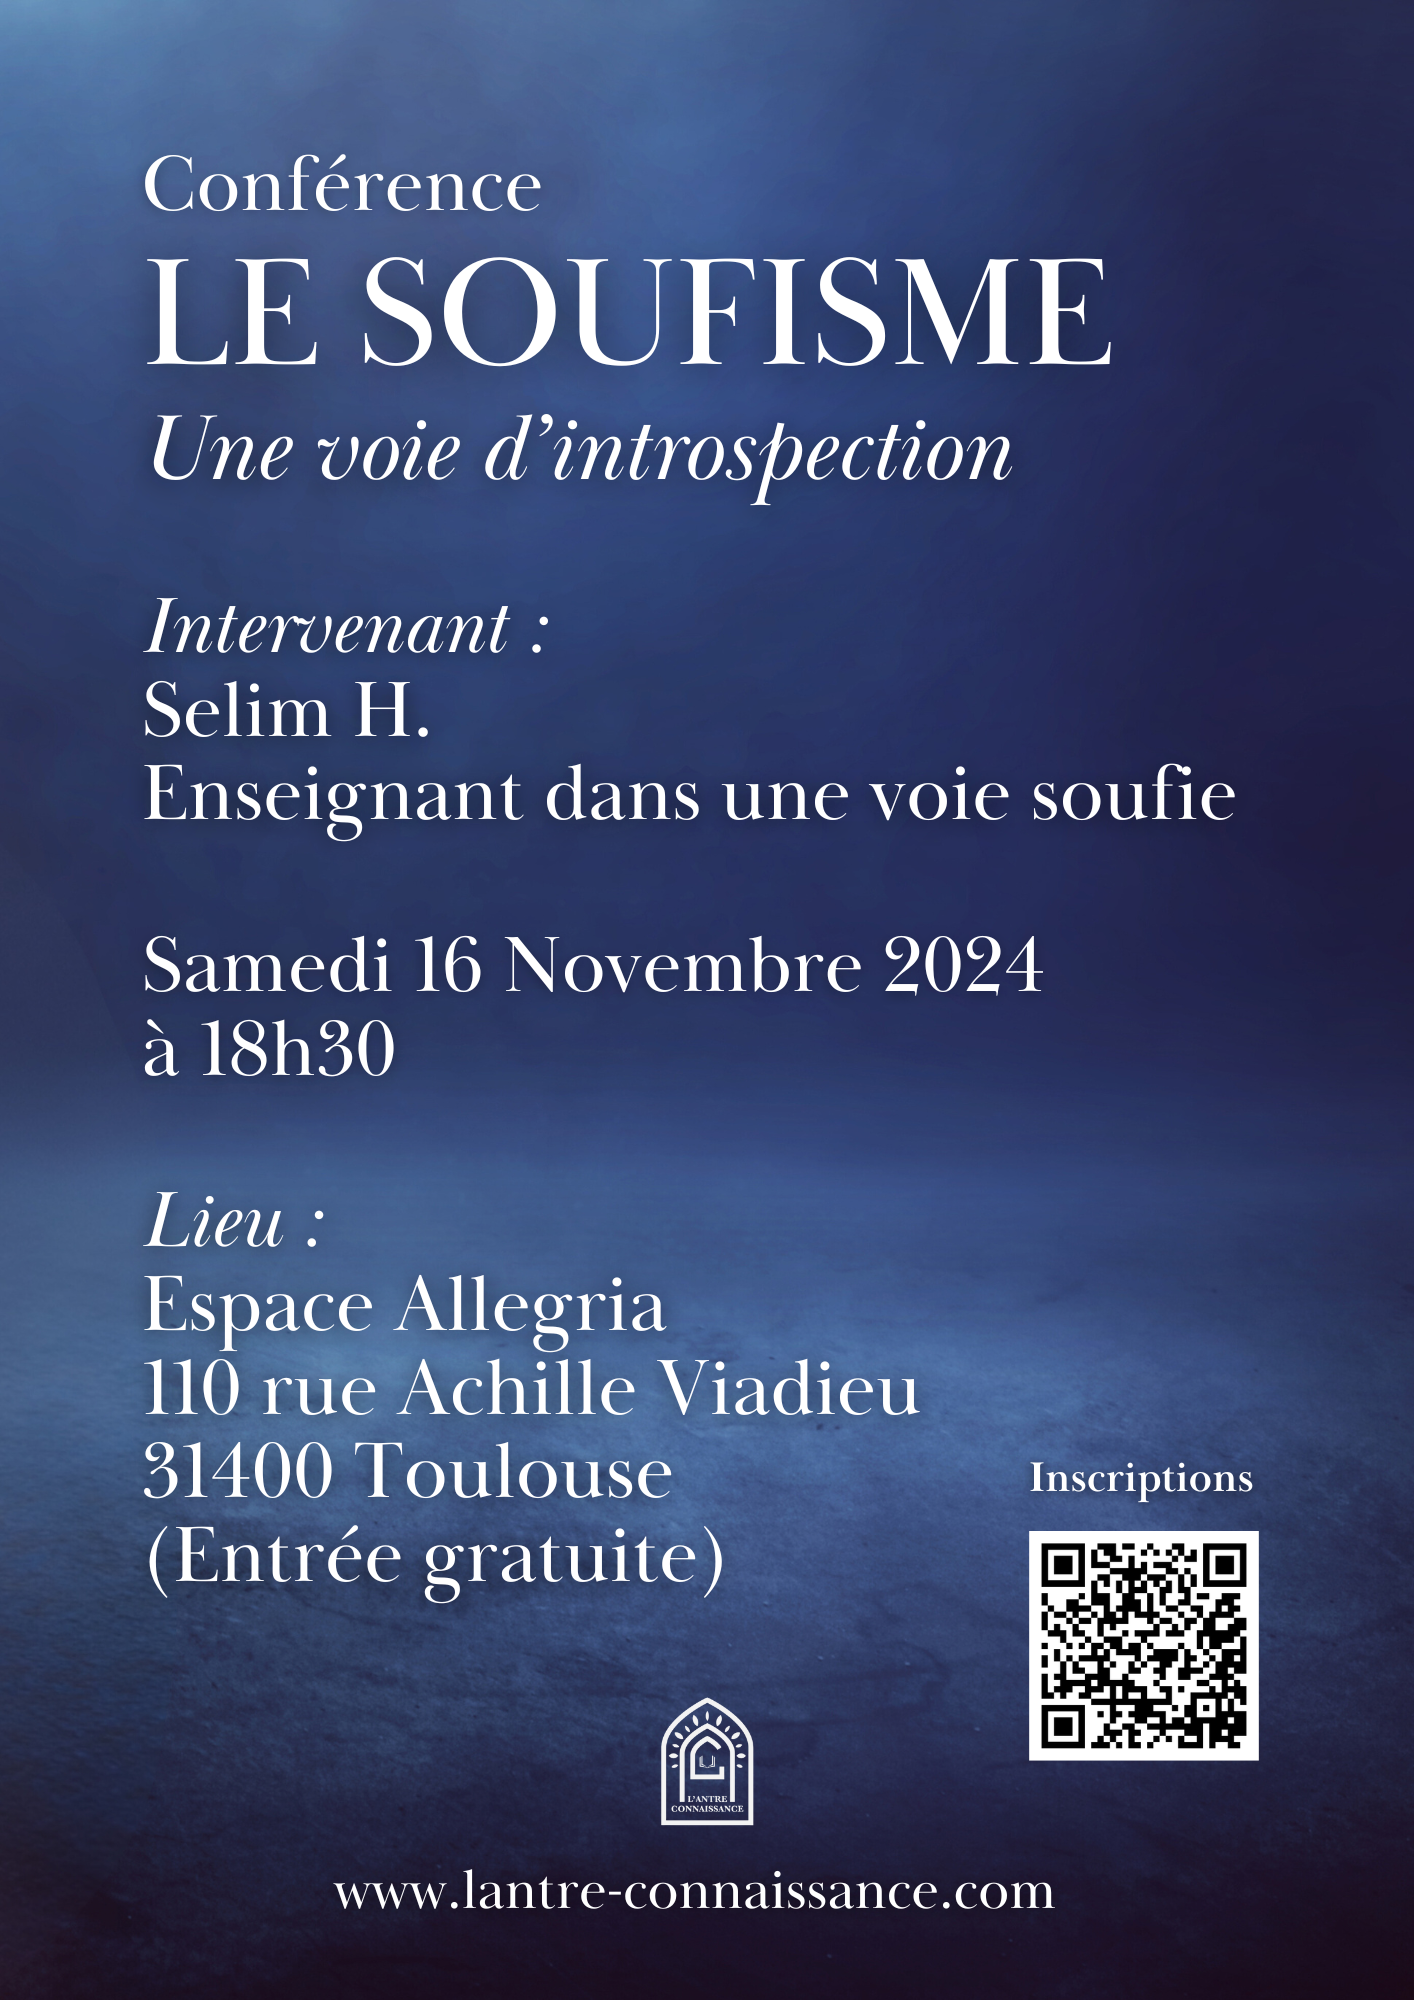
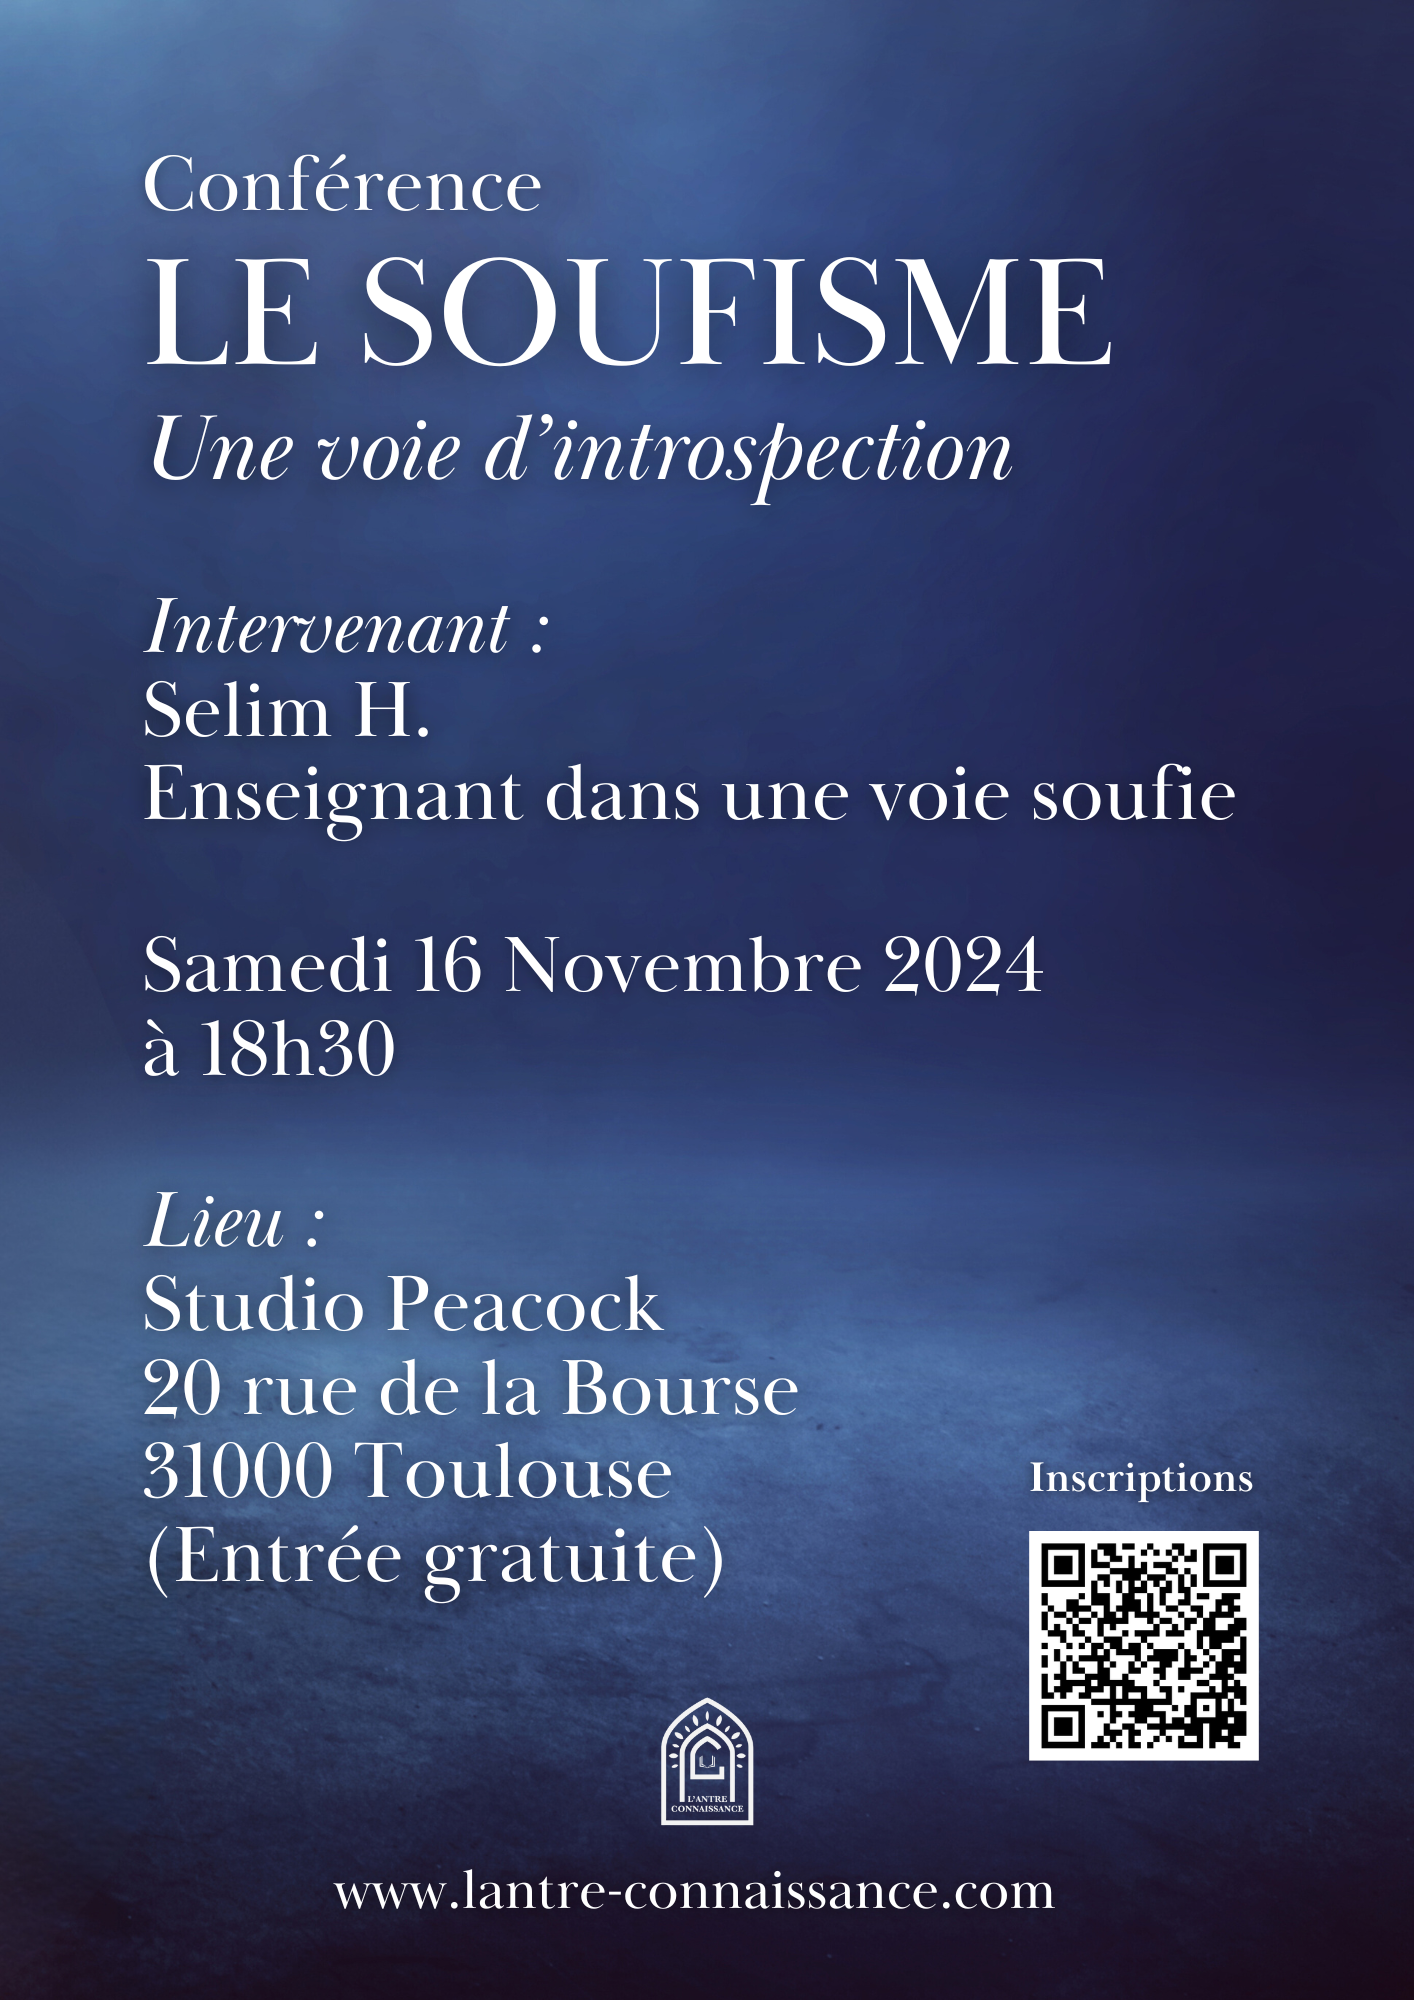
modif lieu

Changed region(s): [[0.0934, 0.62, 0.6535, 0.744]]

diff --git a/src/pages/PageEvenement/ui/BanniereEvenement.jsx b/src/pages/PageEvenement/ui/BanniereEvenement.jsx
@@ -14,7 +14,7 @@ function BanniereEvenement()  {
         {/* Premier élément horizontal */}
         <div className="flex items-center space-x-4">
           <i className="fa-solid fa-calendar text-2xl"></i> 
-          <p className="text-base leading-7">Espace Allegria, Toulouse </p>
+          <p className="text-base leading-7">Studio Peacock, Toulouse </p>
         </div>
         {/* Deuxième élément horizontal */}
         <div className="flex items-center space-x-4">
